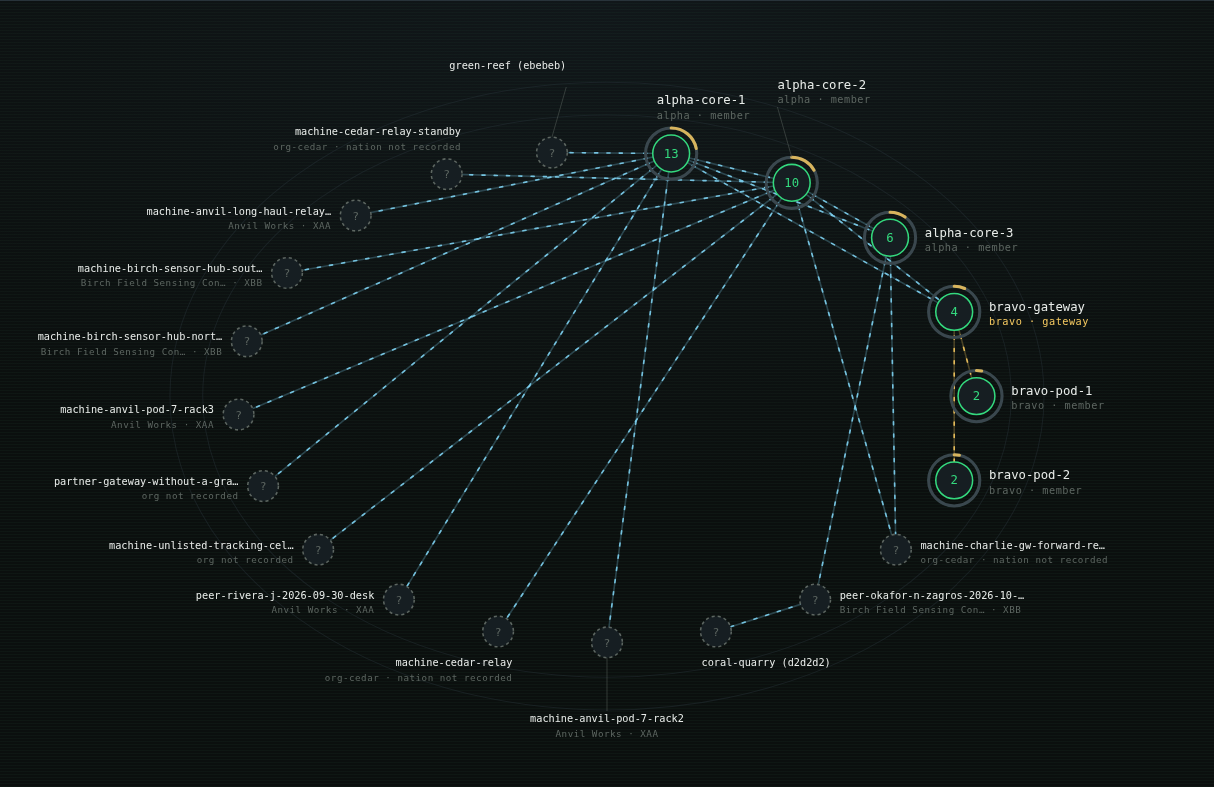
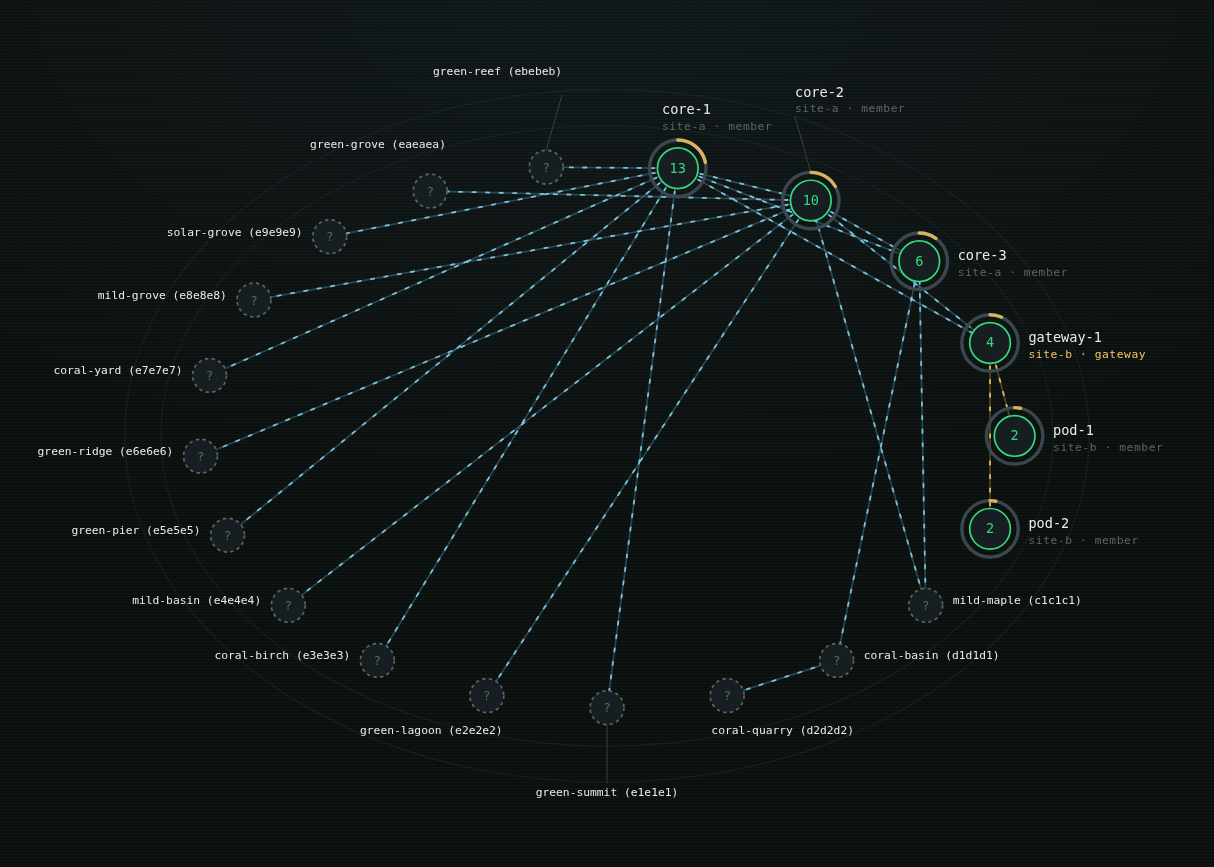
docs(topology): graph screenshots from a rig with generic router names and no name file

diff --git a/docs/design/zenoh-topology-service.md b/docs/design/zenoh-topology-service.md
@@ -28,7 +28,7 @@ On the rig, with one router holding 541 subscriptions and 22 routers in its grou
 
 ### The routing graph
 
-![The topology graph of the rig: six reporting routers drawn as full circles with application counts, fourteen routers that send no report drawn as small dashed circles labeled with their mesh peer names and organizations, blue routed links and amber terminated links.](zenoh-topology-service/graph-dark.png)
+![The topology graph of the rig: six reporting routers drawn as full circles with application counts, fourteen routers that send no report drawn as small dashed circles labeled with a name derived from each router's ZID (no name file is configured), blue routed links and amber terminated links.](zenoh-topology-service/graph-dark.png)
 
 <details><summary>The same graph in the light theme</summary>
 
